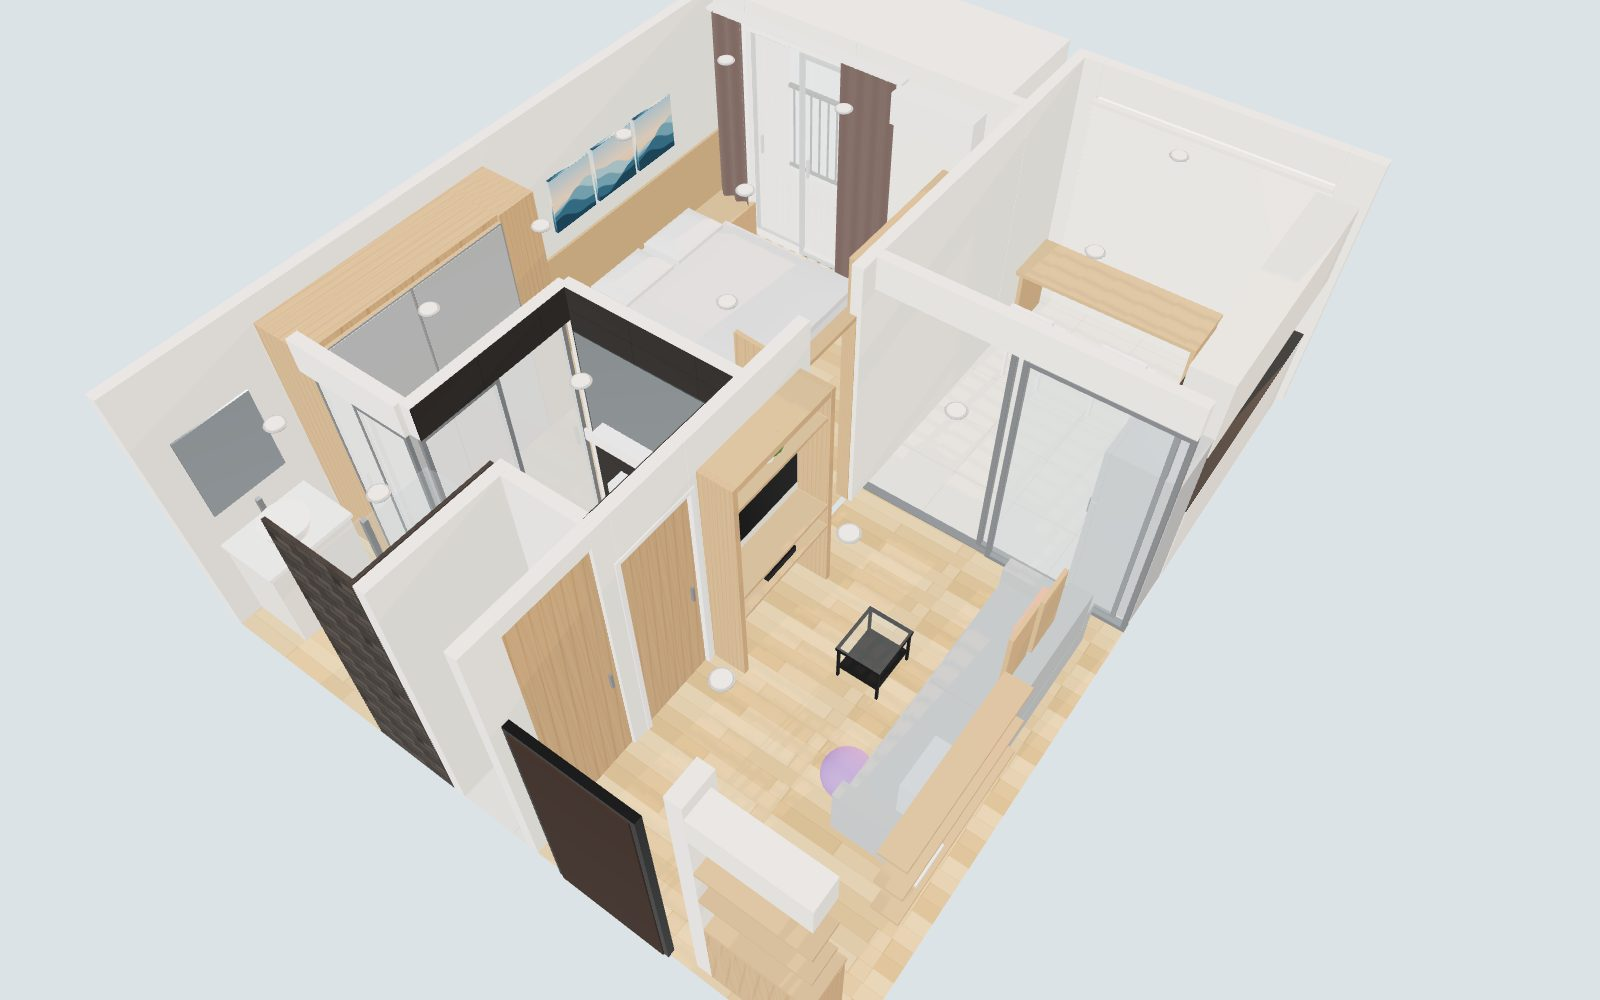
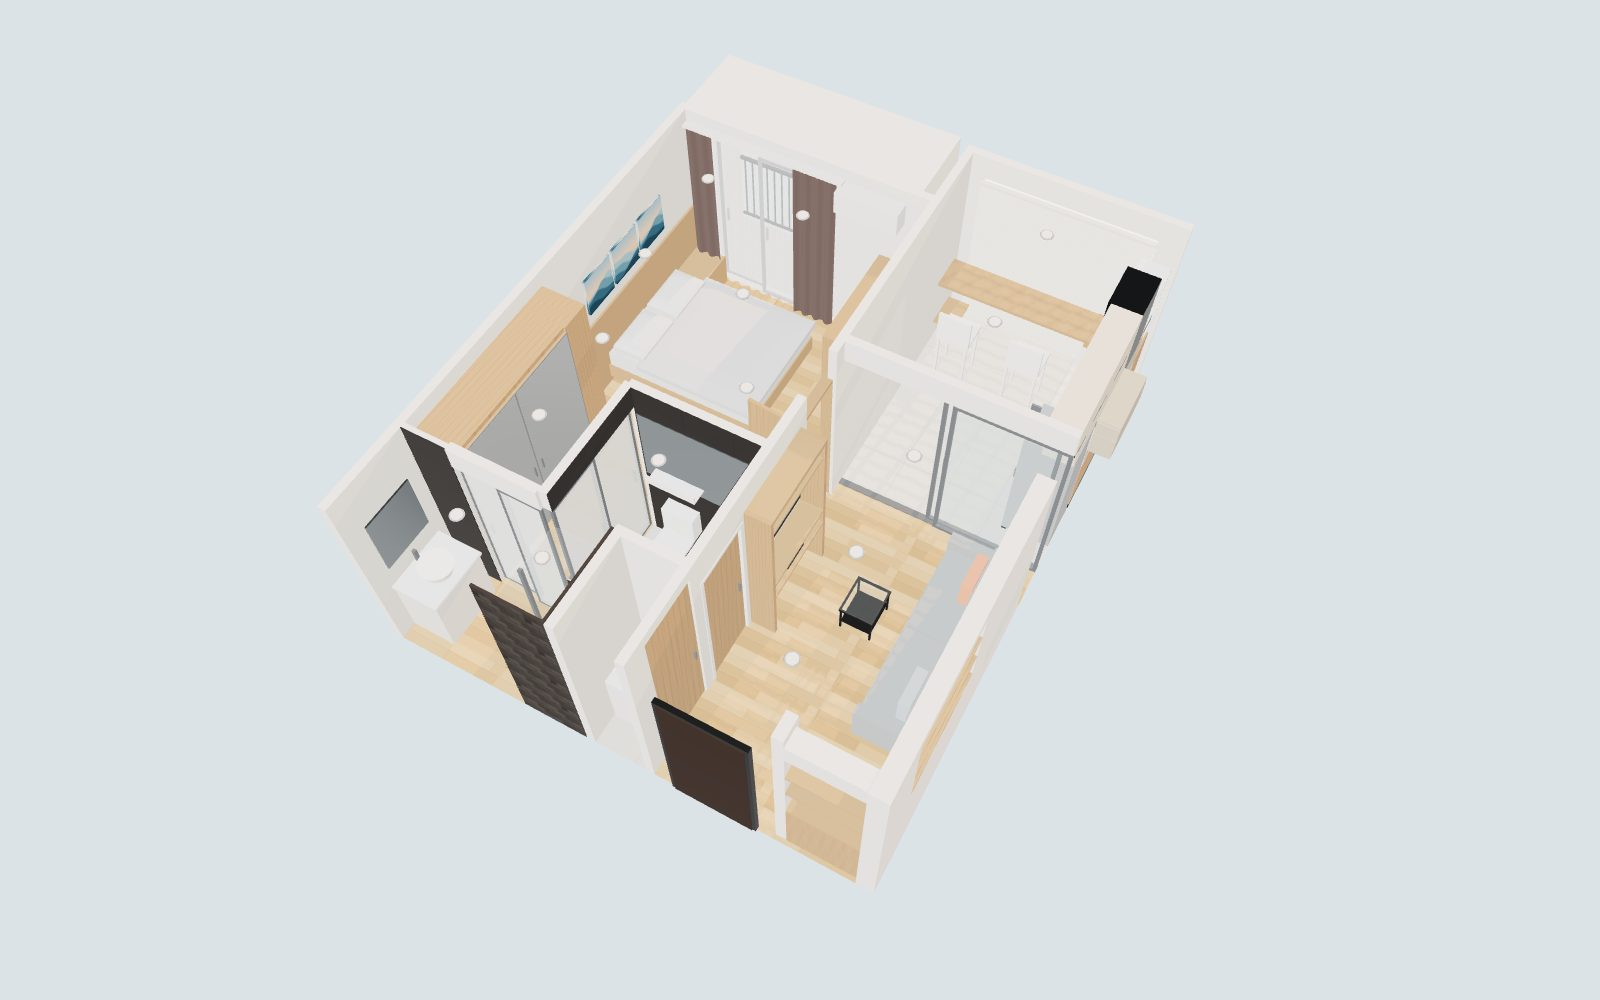
feat(kitchen): add the kettle; remove the purple pouf from the living room; refresh stills

Changed region(s): [[0.0938, 0.0, 0.8125, 1.0], [0.8125, 0.248, 0.8438, 0.31]]

diff --git a/rental-2026/3d/src/rooms/kitchen_living.js b/rental-2026/3d/src/rooms/kitchen_living.js
@@ -58,6 +58,14 @@ export function kitchen() {
   for (const y of [1.3, 1.67, 1.88, 2.1]) box(g, [sh0, y, sz0], [E, y + 0.02, sz1], mat.white);
   box(g, [sh0 + 0.04, 1.32, -3.5], [E - 0.02, 1.62, -2.99], mat.steel);              // microwave
   box(g, [sh0 + 0.035, 1.36, -3.42], [sh0 + 0.04, 1.58, -3.12], mat.dark);           //   its window
+  // Electric kettle on the desk corner by the microwave (light blue, from the scan)
+  const kettleBlue = new THREE.MeshStandardMaterial({ color: 0xa8d4e4, roughness: 0.35 });
+  const kx = 3.35, kz = -3.3, ky = 1.01;
+  const kBase = new THREE.Mesh(new THREE.CylinderGeometry(0.085, 0.09, 0.02, 24), mat.dark); kBase.position.set(kx, ky + 0.01, kz); g.add(kBase);
+  const kBody = new THREE.Mesh(new THREE.CylinderGeometry(0.065, 0.08, 0.2, 24), kettleBlue); kBody.position.set(kx, ky + 0.12, kz); kBody.castShadow = true; g.add(kBody);
+  const kLid = new THREE.Mesh(new THREE.SphereGeometry(0.066, 20, 10, 0, Math.PI * 2, 0, Math.PI / 2), kettleBlue); kLid.scale.y = 0.35; kLid.position.set(kx, ky + 0.22, kz); g.add(kLid);
+  const kHandle = new THREE.Mesh(new THREE.TorusGeometry(0.07, 0.014, 8, 20, Math.PI), kettleBlue); kHandle.rotation.set(0, 0, -Math.PI / 2); kHandle.position.set(kx + 0.075, ky + 0.13, kz); g.add(kHandle);
+  const kSpout = new THREE.Mesh(new THREE.ConeGeometry(0.025, 0.06, 12), kettleBlue); kSpout.rotation.z = Math.PI / 2 + 0.6; kSpout.position.set(kx - 0.085, ky + 0.19, kz); g.add(kSpout);
   // Black glass hood unit over the hob
   box(g, [E - 0.38, 1.5, -2.91], [E, 2.56, -2.33], blackGlass);
   box(g, [E - 0.4, 1.48, -2.91], [E, 1.51, -2.33], mat.steel);
@@ -179,9 +187,6 @@ export function living() {
   box(g, [tx, 0.97, tz0], [tx + d, 1.0, tz1], mat.oak);                        // console top
   box(g, [tx, 0.75, tz0], [tx + 0.02, 0.97, tz1], mat.counter);                // dark inside
   box(g, [tx + 0.05, 0.75, 0.8], [tx + 0.25, 0.82, 1.15], mat.dark);           // set-top box
-  const pouf = new THREE.Mesh(new THREE.SphereGeometry(0.2, 24, 16), new THREE.MeshStandardMaterial({ color: 0xa58bd0, roughness: 0.9 }));
-  pouf.position.set(2.6, 0.18, 1.85); pouf.scale.y = 0.9; pouf.castShadow = true;
-  g.add(pouf);
   return g;
 }
 
